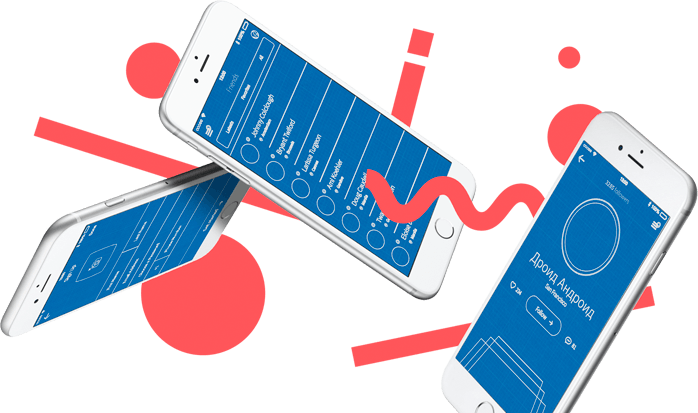
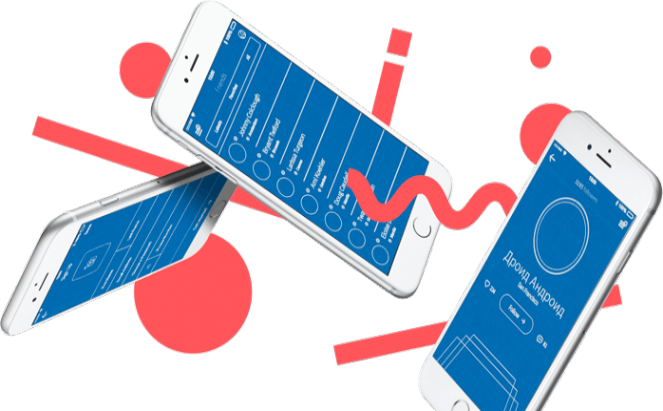
Подготовка графики - правки
Изменил размеры картинок в слайдере

diff --git a/index.html b/index.html
@@ -34,7 +34,7 @@
 			 <div class="slider-inner">
 				<div class="slider-slides">
 				  <div class="slider-1">
-					 <img src="img/slide1.png" width="698" height="413" alt="Изображение Слайдер-1">
+					 <img src="img/slide1.png" width="663" height="411" alt="Изображение Слайдер-1">
 					 <div class="text-slider-1">
 						<p>Долго, дорого, скрупулезно</p>
 						<p>Математически выверенный дизайн для сайта или вашего приложения.</p>
@@ -42,7 +42,7 @@
 					 </div>
 				  </div>
 				  <div class="slider-2">
-					 <img src="img/slide2.png" width="663" height="430" alt="Изображение Слайдер-2">
+					 <img src="img/slide2.png" width="663" height="411" alt="Изображение Слайдер-2">
 					 <div class="text-slider-2">
 						<p>Любим математику, как никто другой</p>
 						<p>Никакого креатива, только математические формулы для расчета идеальных пропорций.</p>
@@ -50,7 +50,7 @@
 					 </div>
 				  </div>
 				  <div class="slider-3">
-					 <img src="img/slide3.png" width="759" height="411" alt="Изображение Слайдер-3">
+					 <img src="img/slide3.png" width="663" height="411" alt="Изображение Слайдер-3">
 					 <div class="text-slider-3">
 						<p>Только ночь, только хардкор</p>
 						<p>Работать днем, как все? Мы против этого.Ближе к полуночи работа только начинается.</p>
@@ -139,7 +139,7 @@
 		</section>
 
 		<section class="map">
-      <iframe src="map.jpg" width="1440" height="416" alt="Карта"></iframe>
+      <img src="map.jpg" width="1440" height="416" alt="Карта"></img>
 		  <section class="contacts">
 		    <h2>Nёrds design studio</h2>
 			  <p>

diff --git a/catalog.html b/catalog.html
@@ -92,7 +92,7 @@
       </section>
 
       <section class="map">
-				<iframe src="map.jpg" width="1440" height="416" alt="Карта"></iframe>
+				<img src="map.jpg" width="1440" height="416" alt="Карта"></img>
       	<section class="contacts">
           <h2>Nёrds design studio</h2>
       	  <p>
